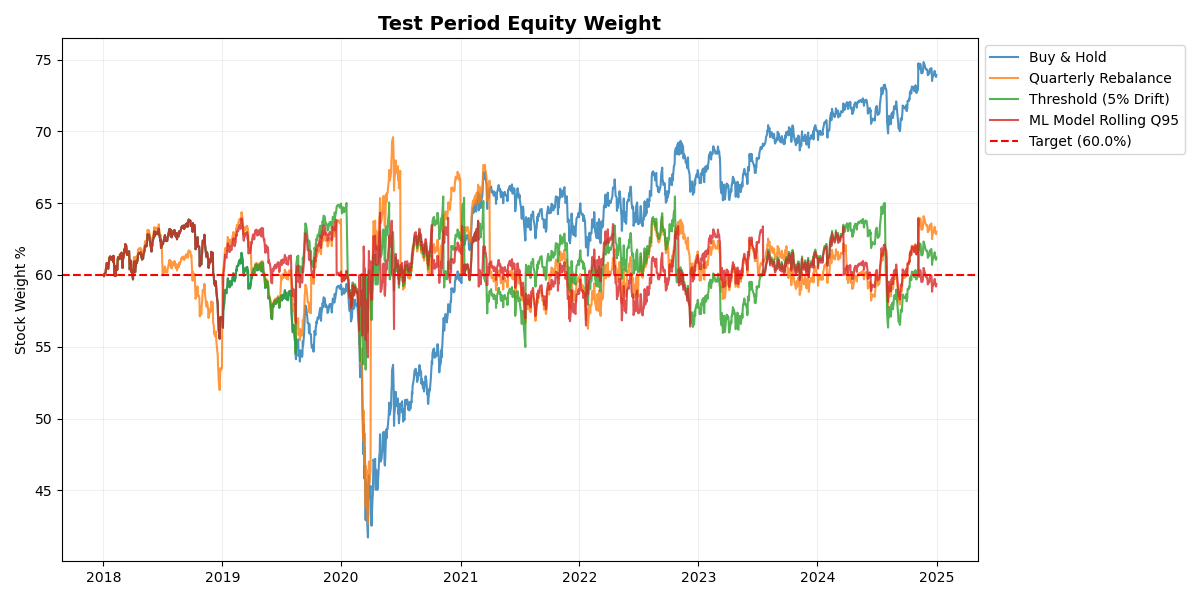
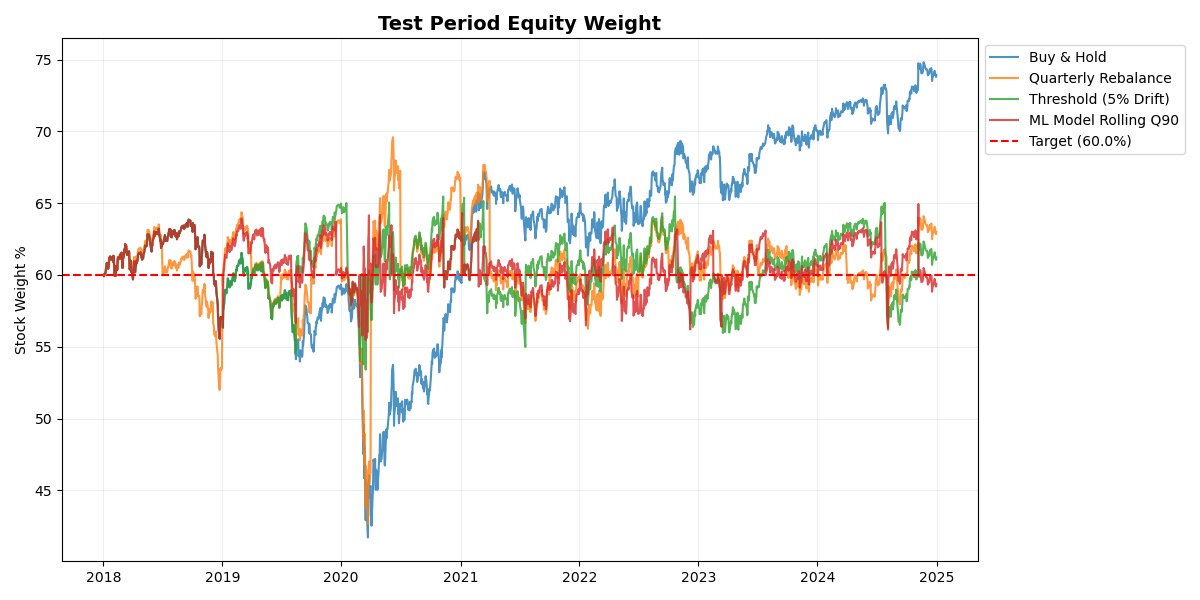
Final: IWM/TLT, compact features, ML trigger q=0.90

Changed region(s): [[0.5858, 0.36, 0.7708, 0.54], [0.2775, 0.36, 0.4008, 0.51]]

diff --git a/src/features.py b/src/features.py
@@ -3,63 +3,41 @@ import pandas as pd
 import config
 from src.data_processing import download_prices, clean_prices
 
-
-cols = ["drift", "v_stock", "v_bond", "s_b_corr", "ma_cross", "v_ratio", "rsi", "b_upper", "dom", "is_tom", "v_trend", "stock_momentum_60"]
-
-
+cols=["drift","v_stock","v_bond","s_b_corr","v_ratio","v_trend","vol_regime","stock_bond_divergence"]
 def add_features(df_prices, s_qty, b_qty):
-    df = df_prices.copy()
-
-    r_s, r_b = df["stock"].pct_change(), df["bond"].pct_change()
-    win, ann = config.volatility_past_period, config.trading_days_per_year
-
-    df["v_stock"], df["v_bond"] = r_s.rolling(win).std() * np.sqrt(ann), r_b.rolling(win).std() * np.sqrt(ann)
-    df["s_b_corr"] = r_s.rolling(config.corr_past_period).corr(r_b)
-    df["v_ratio"] = df["stock"].pct_change().rolling(20).std() / (df["bond"].pct_change().rolling(20).std() + 1e-9)
-    df["v_trend"] = df["v_stock"] / (df["v_stock"].shift(21) + 1e-9)
-
-    diff = df["stock"].diff()
-    g, l = diff.where(diff > 0, 0).rolling(14).mean(), (-diff.where(diff < 0, 0)).rolling(14).mean()
-    df["rsi"] = 100 - (100 / (1 + (g / (l + 1e-9))))
-
-    mu, sigma = df["stock"].rolling(20).mean(), df["stock"].rolling(20).std()
-    df["b_upper"] = (df["stock"] - mu) / (2 * sigma + 1e-9)
-
-    s_val, b_val = s_qty * df["stock"], b_qty * df["bond"]
-    w_s = s_val / (s_val + b_val + 1e-9)
-    df["drift"] = abs(w_s - config.stock_weight)
-
-    df["ma_cross"] = (df["stock"].rolling(20).mean() > df["stock"].rolling(60).mean()).astype(int)
-
-    df["dom"] = df.index.day
-    df["is_tom"] = (df.index + pd.offsets.BMonthEnd(0) == df.index).astype(int)
-    df["stock_momentum_60"] = df["stock"].pct_change(60)
-    
-
-    return df.dropna().copy()
-
+    df=df_prices.copy()
+    r_s=df["stock"].pct_change(); r_b=df["bond"].pct_change(); win,ann=config.volatility_past_period,config.trading_days_per_year
+    df["v_stock"]=r_s.rolling(win).std()*np.sqrt(ann); df["v_bond"]=r_b.rolling(win).std()*np.sqrt(ann)
+    df["s_b_corr"]=r_s.rolling(config.corr_past_period).corr(r_b)
+    df["v_ratio"]=df["stock"].pct_change().rolling(20).std()/(df["bond"].pct_change().rolling(20).std()+1e-9)
+    df["v_trend"]=df["v_stock"]/(df["v_stock"].shift(21)+1e-9)
+    s_val=s_qty*df["stock"]; b_val=b_qty*df["bond"]; w_s=s_val/(s_val+b_val+1e-9); df["drift"]=abs(w_s-config.stock_weight)
+    df["vol_regime"]=(df["v_stock"]>df["v_stock"].rolling(126).quantile(0.75)).astype(int)
+    df["stock_bond_divergence"]=(df["stock"].pct_change(20)-df["bond"].pct_change(20)).abs()
+    return df[cols].dropna().copy()
 
 def get_feature_columns():
     return cols
 
-
 def save_features(df, path=None):
-    p = path or config.get_processed_file_path()
+    p=path or config.get_processed_file_path(); 
     df.to_csv(p)
 
-
 def load_features(path=None):
-    p = path or config.get_processed_file_path()
+    p=path or config.get_processed_file_path(); 
     return pd.read_csv(p, index_col=0, parse_dates=True)
 
-
-if __name__ == "__main__":
+if __name__=="__main__":
     config.make_dirs()
-    px = clean_prices(download_prices(refresh=False))
-    s0, b0 = px["stock"].iloc[0], px["bond"].iloc[0]
-    sq, bq = (config.initial_wealth * config.stock_weight) / s0, (config.initial_wealth * config.bond_weight) / b0
-    feats = add_features(px, s_qty=sq, b_qty=bq)
+    px=clean_prices(download_prices(refresh=False))
+    s0,b0=px["stock"].iloc[0],px["bond"].iloc[0]
+    sq,bq=(config.initial_wealth*config.stock_weight)/s0,(config.initial_wealth*config.bond_weight)/b0
+    feats=add_features(px, s_qty=sq, b_qty=bq)
     save_features(feats)
+    print(feats.head())
+
+
+
 
 
 

diff --git a/config.py b/config.py
@@ -1,6 +1,6 @@
 from pathlib import Path
 
-#data for the etf used in rebalancing and the time periods, VIC
+#data for the etf used in rebalancing and the time periods
 start_date="2010-01-01"
 end_date="2025-01-01" #last day is excluded in yfinance download, so set to first day of next year to include full 2024 data (31.12.2024)
 train_date="2017-12-31" #date to split train and test data instead of using % split. Test data will be from 2018-01-01 to end_date
@@ -31,7 +31,7 @@ decision_frequency=1
 
 #ml params
 random_seed=42
-prob_quantile=0.95
+prob_quantile=0.90
 ml_thr_window=252
 cv_folds=5
 

diff --git a/outputs/tables/summary_table.md b/outputs/tables/summary_table.md
@@ -2,9 +2,9 @@
 |:-------------------|----------:|:--------------|:--------------------|:-----------|-------------:|:------------------|
 | calendar_quarterly |     0.498 | 4.38%         | 10.95%              | 15.2%      |           27 | $134,965          |
 | calendar_monthly   |     0.453 | 3.92%         | 11.06%              | 15.19%     |           83 | $130,828          |
+| ml_model_rollq_90  |     0.44  | 3.88%         | 11.36%              | 15.4%      |           22 | $130,508          |
 | threshold_5pct     |     0.429 | 3.75%         | 11.36%              | 15.38%     |           12 | $129,375          |
 | buy_hold           |     0.427 | 3.54%         | 10.86%              | 15.19%     |            0 | $127,482          |
-| ml_model_rollq_95  |     0.425 | 3.71%         | 11.36%              | 15.38%     |           20 | $129,003          |
 | threshold_3pct     |     0.422 | 3.69%         | 11.39%              | 15.37%     |           23 | $128,803          |
 | threshold_7pct     |     0.422 | 3.64%         | 11.3%               | 15.37%     |            5 | $128,424          |
 | calendar_yearly    |     0.389 | 3.1%          | 10.7%               | 14.86%     |            6 | $123,815          |
